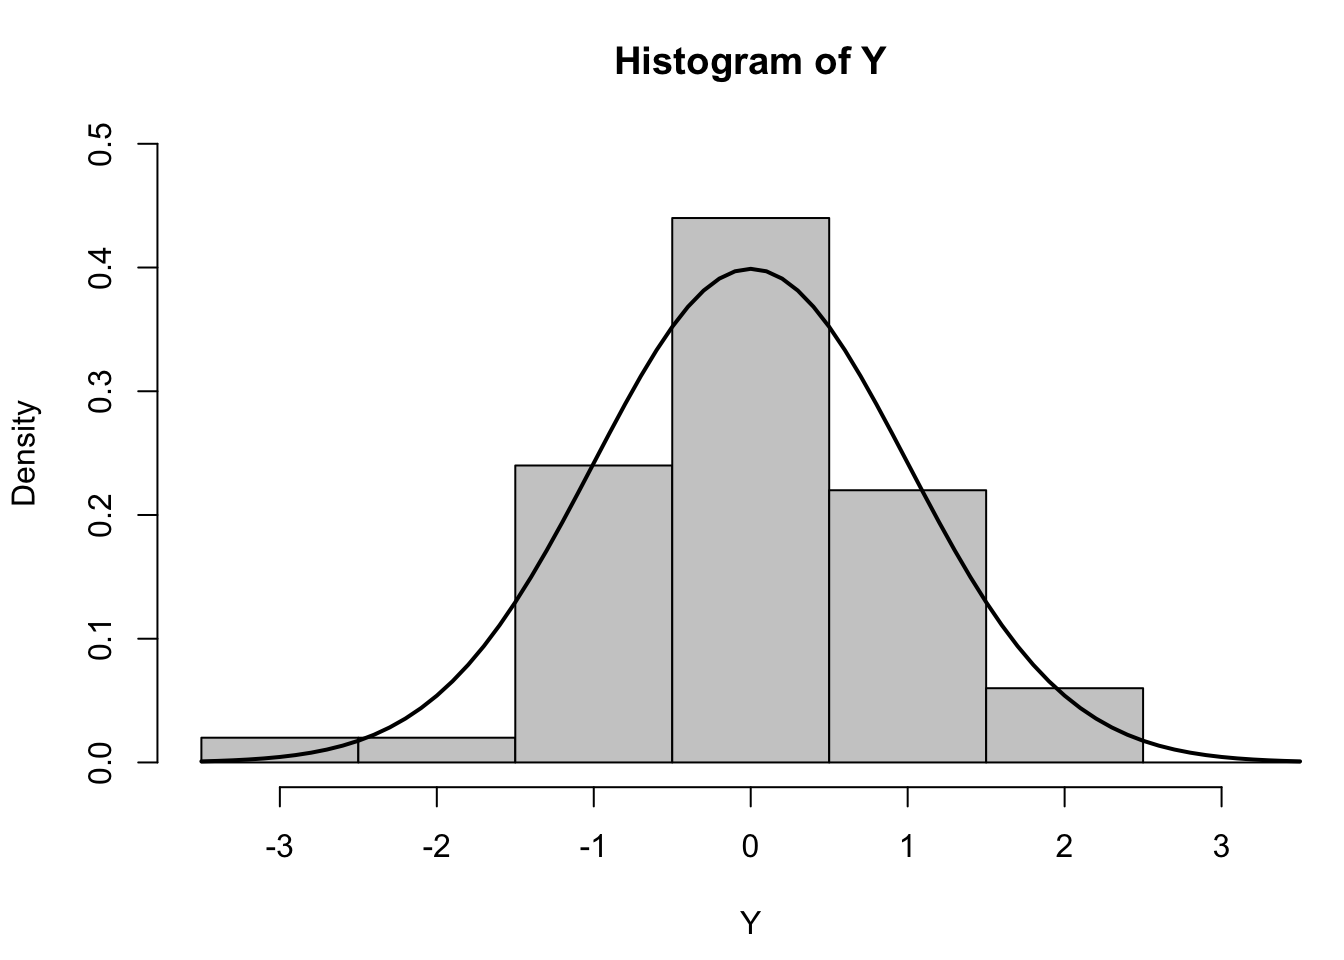
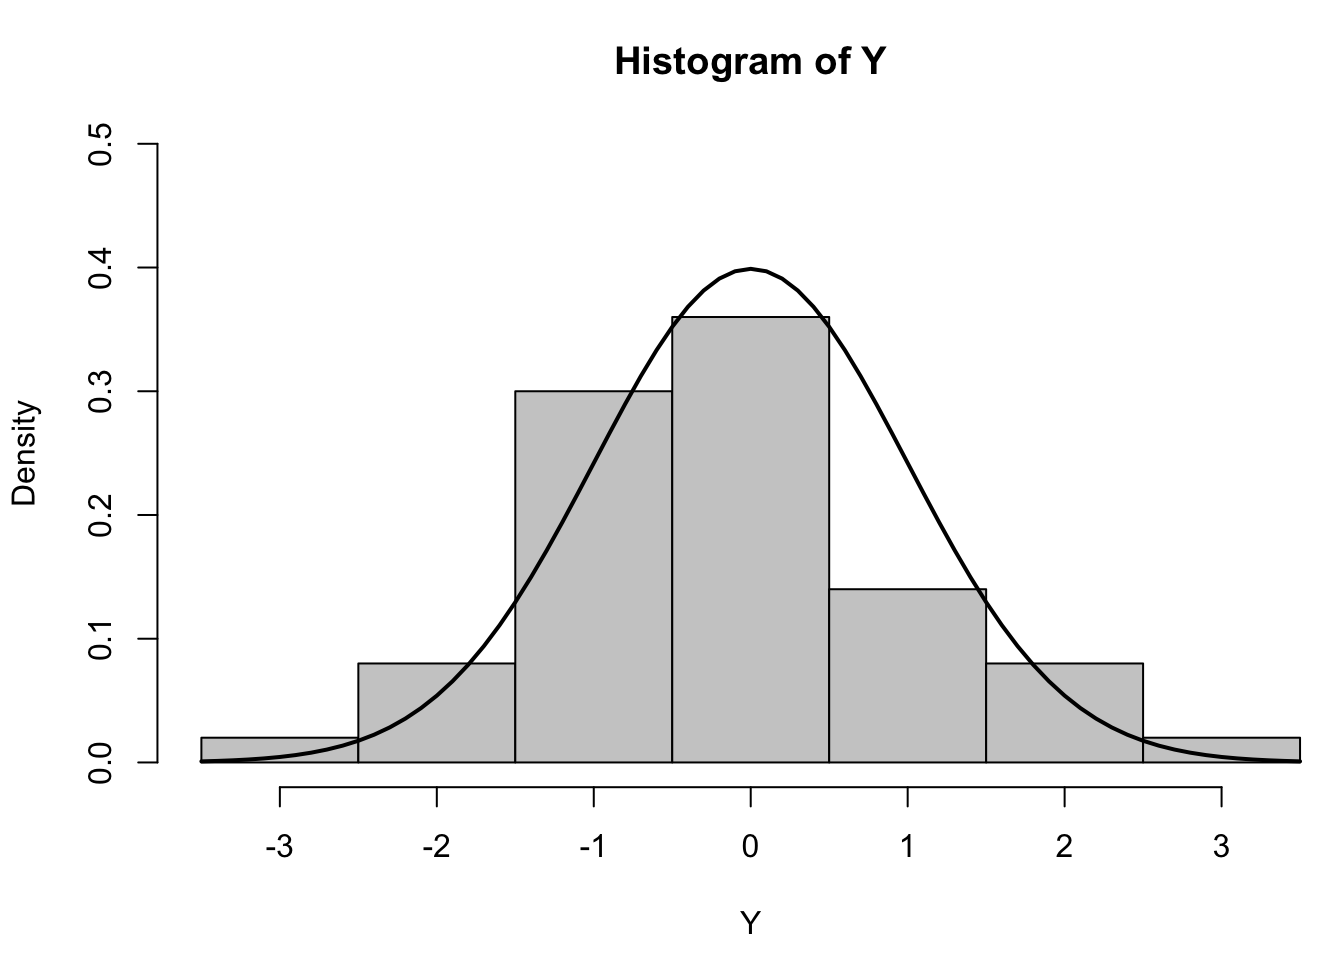
Add files via upload

diff --git a/index.html b/index.html
@@ -144,7 +144,7 @@ ul.task-list{list-style: none;}
 <!-- margin-sidebar -->
     <div id="quarto-margin-sidebar" class="sidebar margin-sidebar">
         
-    <h5 class="quarto-listing-category-title">Categories</h5><div class="quarto-listing-category category-default"><div class="category" data-category="">All <span class="quarto-category-count">(4)</span></div><div class="category" data-category="analysis">analysis <span class="quarto-category-count">(1)</span></div><div class="category" data-category="code">code <span class="quarto-category-count">(1)</span></div><div class="category" data-category="news">news <span class="quarto-category-count">(2)</span></div></div></div>
+    <h5 class="quarto-listing-category-title">Categories</h5><div class="quarto-listing-category category-default"><div class="category" data-category="">All <span class="quarto-category-count">(3)</span></div><div class="category" data-category="Data Visualization">Data Visualization <span class="quarto-category-count">(2)</span></div><div class="category" data-category="news">news <span class="quarto-category-count">(1)</span></div></div></div>
 <!-- main -->
 <main class="content quarto-banner-title-block column-page-left" id="quarto-document-content">
 
@@ -157,28 +157,42 @@ ul.task-list{list-style: none;}
 
 <div class="quarto-listing quarto-listing-container-default" id="listing-listing">
 <div class="list quarto-listing-default">
-<div class="quarto-post image-right" data-index="0" data-listing-file-modified-sort="1664661661044" data-listing-reading-time-sort="3.545">
+<div class="quarto-post image-right" data-index="0" data-categories="Data Visualization" data-listing-date-sort="1664341200000" data-listing-file-modified-sort="1664664483696" data-listing-reading-time-sort="3.585">
 <div class="thumbnail">
 <p><a href="./posts/assignment1.html"> <img src="./posts/Blue tree.png" class="thumnail-image"> </a></p>
 </div>
 <div class="body">
 <a href="./posts/assignment1.html">
 <h3 class="no-anchor listing-title">
-Assignment 1 EPPS 6356 Data Visualization
+EPPS6356 Assignment 1
 </h3>
 <div class="listing-subtitle">
 
 </div>
+</a>
+<div class="listing-categories">
+<div class="listing-category" onclick="window.quartoListingCategory('Data Visualization'); return false;">
+Data Visualization
+</div>
+</div>
+<a href="./posts/assignment1.html">
 <div class="listing-description">
-As the link, you can check out ‘Generative Art: 50 Best Examples, Tool &amp; Artists’
+---
 </div>
 </a>
 </div>
 <div class="metadata">
-<a href="./posts/assignment1.html"> </a>
+<a href="./posts/assignment1.html">
+<div class="listing-date">
+Sep 28, 2022
+</div>
+<div class="listing-author">
+Seongdeok Oh
+</div>
+</a>
 </div>
 </div>
-<div class="quarto-post image-right" data-index="1" data-listing-file-modified-sort="1664645201129" data-listing-reading-time-sort="3.515">
+<div class="quarto-post image-right" data-index="1" data-categories="Data Visualization" data-listing-date-sort="1664341200000" data-listing-file-modified-sort="1664664705873" data-listing-reading-time-sort="3.515">
 <div class="thumbnail">
 <a href="./posts/assignment2.html">
 <div class="thumbnail-image">
@@ -189,62 +203,35 @@ As the link, you can check out ‘Generative Art: 50 Best Examples, Tool &amp; A
 <div class="body">
 <a href="./posts/assignment2.html">
 <h3 class="no-anchor listing-title">
-Assignment 2
-</h3>
-<div class="listing-subtitle">
-
-</div>
-<div class="listing-description">
-Run Paul Murrell’s RGraphics basic R programs
-</div>
-</a>
-</div>
-<div class="metadata">
-<a href="./posts/assignment2.html"> </a>
-</div>
-</div>
-<div class="quarto-post image-right" data-index="2" data-categories="news,code,analysis" data-listing-date-sort="1664600400000" data-listing-file-modified-sort="1664651563679" data-listing-reading-time-sort="0.045">
-<div class="thumbnail">
-<p><a href="./posts/post-with-code/index.html"> <img src="./posts/post-with-code/image.jpg" class="thumnail-image"> </a></p>
-</div>
-<div class="body">
-<a href="./posts/post-with-code/index.html">
-<h3 class="no-anchor listing-title">
-Post With Code
+EPPS6356 Assignment 2
 </h3>
 <div class="listing-subtitle">
 
 </div>
 </a>
 <div class="listing-categories">
-<div class="listing-category" onclick="window.quartoListingCategory('news'); return false;">
-news
-</div>
-<div class="listing-category" onclick="window.quartoListingCategory('code'); return false;">
-code
-</div>
-<div class="listing-category" onclick="window.quartoListingCategory('analysis'); return false;">
-analysis
+<div class="listing-category" onclick="window.quartoListingCategory('Data Visualization'); return false;">
+Data Visualization
 </div>
 </div>
-<a href="./posts/post-with-code/index.html">
+<a href="./posts/assignment2.html">
 <div class="listing-description">
-This is a post with executable code.
+Run Paul Murrell’s RGraphics basic R programs
 </div>
 </a>
 </div>
 <div class="metadata">
-<a href="./posts/post-with-code/index.html">
+<a href="./posts/assignment2.html">
 <div class="listing-date">
-Oct 1, 2022
+Sep 28, 2022
 </div>
 <div class="listing-author">
-Harlow Malloc
+Seongdeok Oh
 </div>
 </a>
 </div>
 </div>
-<div class="quarto-post image-right" data-index="3" data-categories="news" data-listing-date-sort="1664341200000" data-listing-file-modified-sort="1664651563675" data-listing-reading-time-sort="0.16">
+<div class="quarto-post image-right" data-index="2" data-categories="news" data-listing-date-sort="1664341200000" data-listing-file-modified-sort="1664664814955" data-listing-reading-time-sort="0.165">
 <div class="thumbnail">
 <p><a href="./posts/welcome/index.html"> <img src="./posts/welcome/thumbnail.jpg" class="thumnail-image"> </a></p>
 </div>
@@ -264,7 +251,7 @@ news
 </div>
 <a href="./posts/welcome/index.html">
 <div class="listing-description">
-This is the first post in a Quarto blog. Welcome!
+This is the first post in a Seongdeok Oh’s blog. Welcome!
 </div>
 </a>
 </div>
@@ -274,7 +261,7 @@ This is the first post in a Quarto blog. Welcome!
 Sep 28, 2022
 </div>
 <div class="listing-author">
-Tristan O’Malley
+Seongdeok Oh
 </div>
 </a>
 </div>

diff --git a/posts/assignment2.html b/posts/assignment2.html
@@ -6,8 +6,10 @@
 
 <meta name="viewport" content="width=device-width, initial-scale=1.0, user-scalable=yes">
 
+<meta name="author" content="Seongdeok Oh">
+<meta name="dcterms.date" content="2022-09-28">
 
-<title>Seongdeok Oh – assignment2</title>
+<title>Seongdeok Oh - EPPS6356 Assignment 2</title>
 <style>
 code{white-space: pre-wrap;}
 span.smallcaps{font-variant: small-caps;}
@@ -155,7 +157,37 @@ code span.wa { color: #60a0b0; font-weight: bold; font-style: italic; } /* Warni
     </nav>
 </header>
 <!-- content -->
-<div id="quarto-content" class="quarto-container page-columns page-rows-contents page-layout-article page-navbar">
+<header id="title-block-header" class="quarto-title-block default page-columns page-full">
+  <div class="quarto-title-banner page-columns page-full">
+    <div class="quarto-title column-body">
+      <h1 class="title">EPPS6356 Assignment 2</h1>
+                                <div class="quarto-categories">
+                <div class="quarto-category">Data Visualization</div>
+              </div>
+                  </div>
+  </div>
+    
+  
+  <div class="quarto-title-meta">
+
+      <div>
+      <div class="quarto-title-meta-heading">Author</div>
+      <div class="quarto-title-meta-contents">
+               <p>Seongdeok Oh </p>
+            </div>
+    </div>
+      
+      <div>
+      <div class="quarto-title-meta-heading">Published</div>
+      <div class="quarto-title-meta-contents">
+        <p class="date">September 28, 2022</p>
+      </div>
+    </div>
+      
+    </div>
+    
+  
+  </header><div id="quarto-content" class="quarto-container page-columns page-rows-contents page-layout-article page-navbar">
 <!-- sidebar -->
 <!-- margin-sidebar -->
     
@@ -164,8 +196,9 @@ code span.wa { color: #60a0b0; font-weight: bold; font-style: italic; } /* Warni
 
 
 
-<section id="assignment-2" class="level2">
-<h2 class="anchored" data-anchor-id="assignment-2">Assignment 2</h2>
+
+<section id="epps-6356-assignment-2" class="level2">
+<h2 class="anchored" data-anchor-id="epps-6356-assignment-2">EPPS 6356 Assignment 2</h2>
 <section id="seongdeok-oh" class="level4">
 <h4 class="anchored" data-anchor-id="seongdeok-oh">Seongdeok Oh</h4>
 </section>
@@ -238,15 +271,15 @@ replace the existing scale.</code></pre>
 <span id="cb4-37"><a href="#cb4-37" aria-hidden="true" tabindex="-1"></a>Y <span class="ot">&lt;-</span> <span class="fu">rnorm</span>(<span class="dv">50</span>)</span>
 <span id="cb4-38"><a href="#cb4-38" aria-hidden="true" tabindex="-1"></a>Y</span></code><button title="Copy to Clipboard" class="code-copy-button"><i class="bi"></i></button></pre></div>
 <div class="cell-output cell-output-stdout">
-<pre><code> [1] -0.06378218 -0.64664178 -0.61874658 -0.09608799 -1.87382036 -0.04391685
- [7]  1.53922695 -0.51060397 -0.36795140 -0.30400432  0.25182743 -0.12975794
-[13]  0.45587846 -0.46907174 -0.57010244  0.28796088 -0.76534254 -1.12164485
-[19]  0.12718991  0.13645915  0.82639703  0.38006512 -0.75913288  1.17357627
-[25] -0.01493971 -0.35901886  0.94733486  0.68385154 -0.50441668  0.69887887
-[31]  0.24802573 -0.35311479  1.15401354  2.14789997  0.56446743  1.25146451
-[37] -1.44571994 -0.66676582  1.93957967  0.75240150 -0.63066257  0.40752744
-[43] -0.26494753  0.91041278 -1.03908007 -2.75228581 -0.33264343  0.14313069
-[49]  0.84113080 -0.23913048</code></pre>
+<pre><code> [1]  0.71836322 -1.33675927 -0.04135225 -2.27431029  0.20799386  1.32072520
+ [7] -0.73308599 -1.50838149 -0.97120747  1.77283209  1.24095723  0.49275698
+[13] -0.70765504  3.06469049 -1.31616188 -1.08066748 -0.61765325  0.16770866
+[19] -0.61553759 -2.01786682 -0.11660653 -0.79693173  0.52083634 -0.38445493
+[25]  2.14208922 -1.07676794  0.95522695 -1.46334170  0.11000675  1.55268755
+[31]  0.28505458  1.06539680 -1.08312520 -0.54596367  0.30259860  0.03302987
+[37] -1.57490058  1.60504517 -0.33243270 -0.11283690 -0.35841345 -2.64525392
+[43]  0.65161666 -0.40158751 -0.60286745  0.48665147  0.04864860 -0.34869730
+[49]  0.06024249 -1.06331483</code></pre>
 </div>
 <div class="cell-output-display">
 <p><img src="assignment2_files/figure-html/unnamed-chunk-3-1.png" class="img-fluid" width="672"></p>

diff --git a/posts/assignment1.html b/posts/assignment1.html
@@ -6,8 +6,10 @@
 
 <meta name="viewport" content="width=device-width, initial-scale=1.0, user-scalable=yes">
 
+<meta name="author" content="Seongdeok Oh">
+<meta name="dcterms.date" content="2022-09-28">
 
-<title>Seongdeok Oh – assignment1</title>
+<title>Seongdeok Oh - EPPS6356 Assignment 1</title>
 <style>
 code{white-space: pre-wrap;}
 span.smallcaps{font-variant: small-caps;}
@@ -155,7 +157,37 @@ code span.wa { color: #60a0b0; font-weight: bold; font-style: italic; } /* Warni
     </nav>
 </header>
 <!-- content -->
-<div id="quarto-content" class="quarto-container page-columns page-rows-contents page-layout-article page-navbar">
+<header id="title-block-header" class="quarto-title-block default page-columns page-full">
+  <div class="quarto-title-banner page-columns page-full">
+    <div class="quarto-title column-body">
+      <h1 class="title">EPPS6356 Assignment 1</h1>
+                                <div class="quarto-categories">
+                <div class="quarto-category">Data Visualization</div>
+              </div>
+                  </div>
+  </div>
+    
+  
+  <div class="quarto-title-meta">
+
+      <div>
+      <div class="quarto-title-meta-heading">Author</div>
+      <div class="quarto-title-meta-contents">
+               <p>Seongdeok Oh </p>
+            </div>
+    </div>
+      
+      <div>
+      <div class="quarto-title-meta-heading">Published</div>
+      <div class="quarto-title-meta-contents">
+        <p class="date">September 28, 2022</p>
+      </div>
+    </div>
+      
+    </div>
+    
+  
+  </header><div id="quarto-content" class="quarto-container page-columns page-rows-contents page-layout-article page-navbar">
 <!-- sidebar -->
 <!-- margin-sidebar -->
     
@@ -164,6 +196,13 @@ code span.wa { color: #60a0b0; font-weight: bold; font-style: italic; } /* Warni
 
 
 
+
+<p>---</p>
+<p>title: “EPPS6356 Assignment 1”</p>
+<p>author: “Seongdeok Oh”</p>
+<p>date: “2022-09-28”</p>
+<p>categories: [EPPS 6356]</p>
+<p>---</p>
 <section id="assignment-1-epps-6356-data-visualization" class="level3">
 <h3 class="anchored" data-anchor-id="assignment-1-epps-6356-data-visualization">Assignment 1 EPPS 6356 Data Visualization</h3>
 <section id="assignment-1" class="level4">

diff --git a/posts/welcome/index.html b/posts/welcome/index.html
@@ -6,10 +6,10 @@
 
 <meta name="viewport" content="width=device-width, initial-scale=1.0, user-scalable=yes">
 
-<meta name="author" content="Tristan O’Malley">
+<meta name="author" content="Seongdeok Oh">
 <meta name="dcterms.date" content="2022-09-28">
 
-<title>Seongdeok’s blog - Welcome To My Blog</title>
+<title>Seongdeok Oh - Welcome To My Blog</title>
 <style>
 code{white-space: pre-wrap;}
 span.smallcaps{font-variant: small-caps;}
@@ -67,7 +67,7 @@ ul.task-list{list-style: none;}
     <nav class="navbar navbar-expand-lg navbar-dark ">
       <div class="navbar-container container-fluid">
       <a class="navbar-brand" href="../../index.html">
-    <span class="navbar-title">Seongdeok’s blog</span>
+    <span class="navbar-title">Seongdeok Oh</span>
   </a>
           <button class="navbar-toggler" type="button" data-bs-toggle="collapse" data-bs-target="#navbarCollapse" aria-controls="navbarCollapse" aria-expanded="false" aria-label="Toggle navigation" onclick="if (window.quartoToggleHeadroom) { window.quartoToggleHeadroom(); }">
   <span class="navbar-toggler-icon"></span>
@@ -110,7 +110,7 @@ ul.task-list{list-style: none;}
       <div>
       <div class="quarto-title-meta-heading">Author</div>
       <div class="quarto-title-meta-contents">
-               <p>Tristan O’Malley </p>
+               <p>Seongdeok Oh </p>
             </div>
     </div>
       
@@ -134,7 +134,7 @@ ul.task-list{list-style: none;}
 
 
 
-<p>This is the first post in a Quarto blog. Welcome!</p>
+<p>This is the first post in a Seongdeok Oh’s blog. Welcome!</p>
 <p><img src="thumbnail.jpg" class="img-fluid"></p>
 <p>Since this post doesn’t specify an explicit <code>image</code>, the first image in the post will be used in the listing page of posts.</p>
 

diff --git a/posts/post-with-code/index.html b/posts/post-with-code/index.html
@@ -7,9 +7,9 @@
 <meta name="viewport" content="width=device-width, initial-scale=1.0, user-scalable=yes">
 
 <meta name="author" content="Harlow Malloc">
-<meta name="dcterms.date" content="2022-10-01">
+<meta name="dcterms.date" content="2022-09-28">
 
-<title>Seongdeok’s blog - Post With Code</title>
+<title>Seongdeok Oh - Post With Code</title>
 <style>
 code{white-space: pre-wrap;}
 span.smallcaps{font-variant: small-caps;}
@@ -130,7 +130,7 @@ code span.wa { color: #60a0b0; font-weight: bold; font-style: italic; } /* Warni
     <nav class="navbar navbar-expand-lg navbar-dark ">
       <div class="navbar-container container-fluid">
       <a class="navbar-brand" href="../../index.html">
-    <span class="navbar-title">Seongdeok’s blog</span>
+    <span class="navbar-title">Seongdeok Oh</span>
   </a>
           <button class="navbar-toggler" type="button" data-bs-toggle="collapse" data-bs-target="#navbarCollapse" aria-controls="navbarCollapse" aria-expanded="false" aria-label="Toggle navigation" onclick="if (window.quartoToggleHeadroom) { window.quartoToggleHeadroom(); }">
   <span class="navbar-toggler-icon"></span>
@@ -182,7 +182,7 @@ code span.wa { color: #60a0b0; font-weight: bold; font-style: italic; } /* Warni
       <div>
       <div class="quarto-title-meta-heading">Published</div>
       <div class="quarto-title-meta-contents">
-        <p class="date">October 1, 2022</p>
+        <p class="date">September 28, 2022</p>
       </div>
     </div>
       
